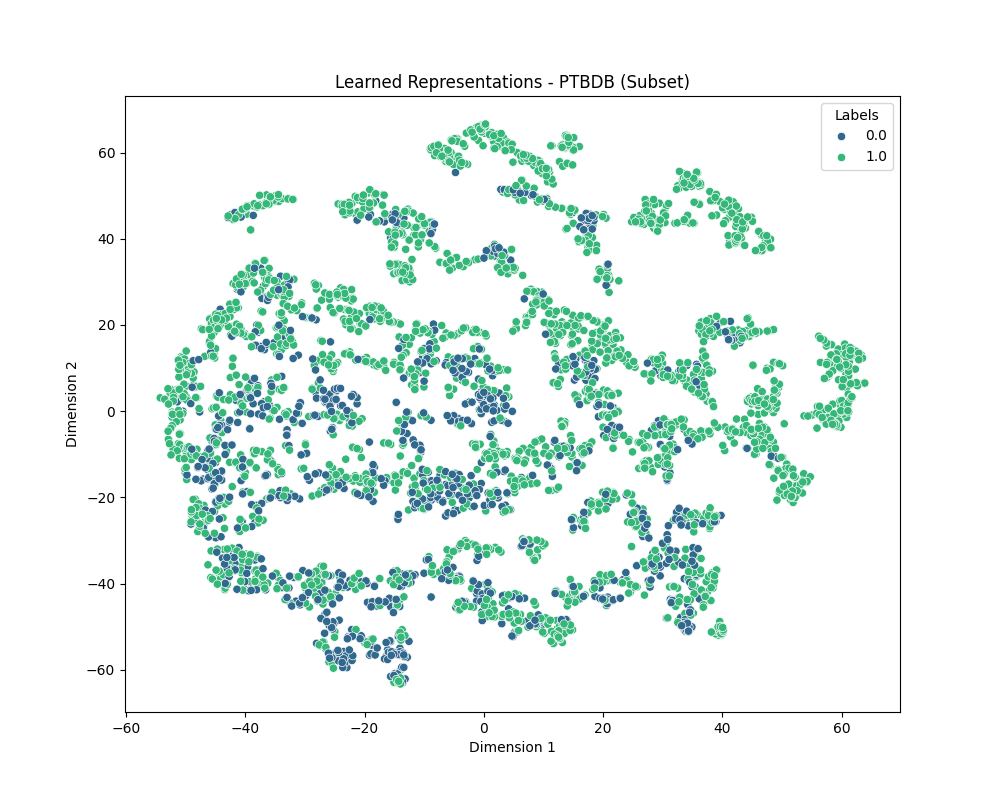
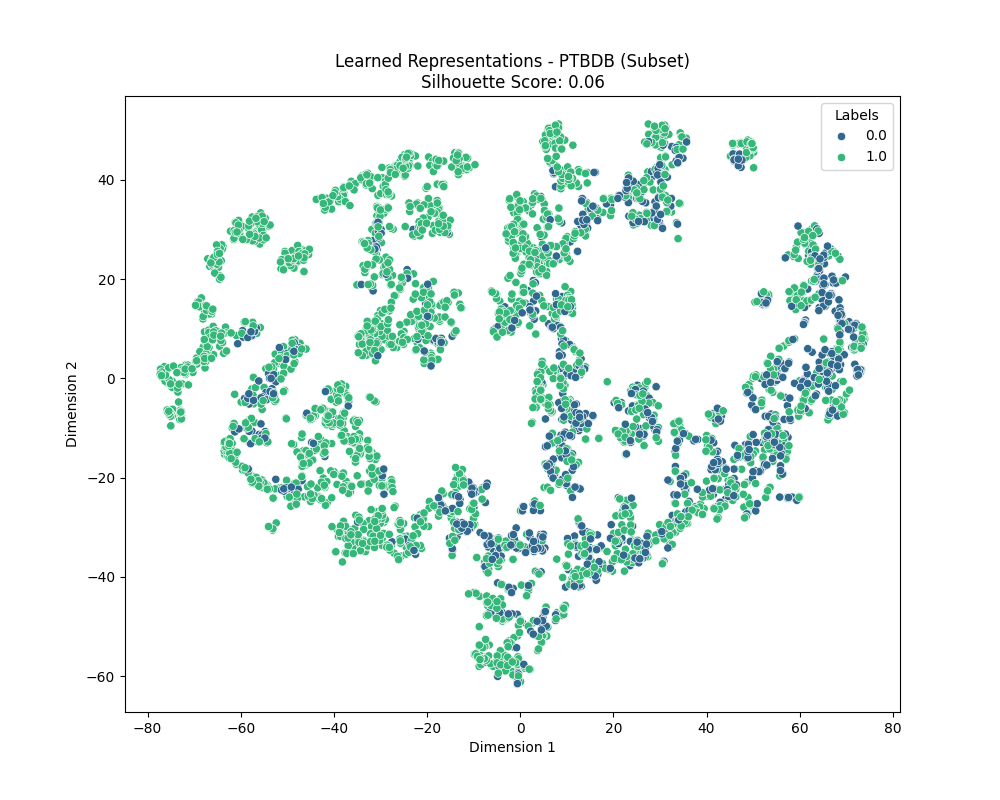
current code

diff --git a/src/part2/classic_representation.py b/src/part2/classic_representation.py
@@ -1,0 +1,207 @@
+### 2.2. part 2 #######
+
+from pathlib import Path
+from secrets import randbelow
+
+from tensorflow.keras.utils import to_categorical
+from sklearn.metrics import average_precision_score, roc_auc_score
+
+# from src.part1.cnn import build_resnet_cnn
+# from src.utils.utils import fit_evaluate, load_train_test, reshape_data
+
+from tensorflow.keras.layers import (Activation, Add, BatchNormalization,
+                                     Conv1D, Dense, Dropout, Flatten, Input,
+                                     MaxPooling1D)
+from tensorflow.keras.metrics import AUC, Precision, Recall
+from tensorflow.keras.models import Model, Sequential
+from tensorflow.keras.regularizers import l2
+
+from tensorflow.keras.layers import Input, Conv1D, BatchNormalization, Activation, MaxPooling1D, Flatten, Dense, Dropout, UpSampling1D, Reshape
+from tensorflow.keras.models import Model
+from tensorflow.keras.optimizers import Adam
+from tensorflow.keras.layers import Input, Dense, Reshape, BatchNormalization, LeakyReLU
+from tensorflow.keras.models import Model
+
+import numpy as np
+import pandas as pd
+from sklearn.metrics import auc, precision_recall_curve, roc_auc_score
+from sklearn.preprocessing import label_binarize
+import matplotlib.pyplot as plt
+import keras
+from keras import layers
+
+
+def load_train_test(dpath="../../data/ptbdb/"):
+    df_train = pd.read_csv(dpath / 'train.csv', header=None)
+    df_test = pd.read_csv(dpath / 'test.csv', header=None)
+
+    # Train split
+    X_train = df_train.iloc[:, :-1]
+    y_train = df_train.iloc[:, -1]
+
+    # Test split
+    X_test = df_test.iloc[:, :-1]
+    y_test = df_test.iloc[:, -1]
+
+    return X_train, y_train, X_test, y_test
+    
+
+# Reshape the data for LSTM
+def reshape_data(X):
+    return X.values.reshape((X.shape[0], X.shape[1], 1))
+
+
+# Fit and evaluate models
+def fit_evaluate(model, X_train, y_train, X_test, y_test,
+                 epochs=50, batch_size=64, val_split=0.1,
+                 num_classes=1):
+
+    _ = model.fit(X_train, y_train,
+                  epochs=epochs, batch_size=batch_size,
+                  validation_split=val_split)
+
+    predictions = np.array(model.predict(X_test))
+
+    roc_score = roc_auc_score(y_test, predictions, multi_class='ovo')
+    print(f"ROC-AUC: {roc_score:.3f}")
+
+    if num_classes == 1:
+        precision, recall, _ = precision_recall_curve(y_test, predictions)
+        auprc_score = auc(recall, precision)
+        print(f"AUPRC: {auprc_score:.3f} \n")
+
+    else:
+        # One vs. Rest (OvR) AUPRC
+        y_test_binarized = label_binarize(
+            y_test, classes=np.arange(num_classes)
+            )
+
+        # Calculate AUPRC for each class
+        auprc_scores = []
+        for i in range(num_classes):
+            precision, recall, _ = precision_recall_curve(
+                y_test_binarized[:, i],
+                predictions[:, i]
+                )
+            auprc_score = auc(recall, precision)
+            auprc_scores.append(auprc_score)
+
+        # Calculate the average AUPRC across all classes
+        average_auprc = np.mean(auprc_scores)
+
+        print("Average AUPRC: {:.3f}".format(average_auprc))
+
+
+def residual_block(x, filters, kernel_size=3, stride=1, conv_shortcut=True, name=None):
+    if conv_shortcut:
+        shortcut = Conv1D(filters, 1, strides=stride, name=name+'_0_conv')(x)
+        shortcut = BatchNormalization(name=name+'_0_bn')(shortcut)
+    else:
+        shortcut = x
+
+    x = Conv1D(filters, kernel_size, padding='same', strides=stride, kernel_regularizer=l2(0.001), name=name+'_1_conv')(x)
+    x = BatchNormalization(name=name+'_1_bn')(x)
+    x = Activation('relu', name=name+'_1_relu')(x)
+
+    x = Conv1D(filters, kernel_size, padding='same', kernel_regularizer=l2(0.001), name=name+'_2_conv')(x)
+    x = BatchNormalization(name=name+'_2_bn')(x)
+
+    x = Add()([shortcut, x])
+    x = Activation('relu', name=name+'_out')(x)
+    return x
+
+
+def build_resnet_encoder(input_shape, num_classes, filters=32, kernel_size=5, strides=2, out_activation='sigmoid'):
+    inputs = Input(shape=input_shape)
+    x = Conv1D(filters, kernel_size, strides=strides, padding='same', name='conv1')(inputs)
+    x = BatchNormalization(name='bn_conv1')(x)
+    x = Activation('relu')(x)
+   
+    x = residual_block(x, filters, name='res_block1')
+    x = MaxPooling1D(3, strides=strides, padding='same')(x)
+
+    x = residual_block(x, 64, name='res_block2')
+    x = MaxPooling1D(3, strides=strides, padding='same')(x)
+
+    x = Flatten()(x)
+    x = Dense(64, activation='relu')(x)
+    x = Dropout(0.5)(x)
+   
+    encoder = Model(inputs, x, name='encoder')
+
+    return encoder
+
+
+def build_decoder(num_classes,latent_dim, output_shape):
+
+    encoded_input = Input(shape=(latent_dim,))
+    x = Dense(64, activation='relu')(encoded_input)
+    x = Dropout(0.5)(x)  # Add dropout layer with a dropout rate of 0.5
+    x = Dense(output_shape[0] * output_shape[1], activation='relu')(x)
+    x = Reshape(output_shape)(x)
+
+    decoder = Model(encoded_input, x, name='decoder')
+    return decoder
+
+
+def log_reg_model(X_train):
+    model = Sequential()
+    model.add(
+        Dense(
+            1, 
+            activation='sigmoid',  # Sigmoid activation for logistic regression
+            input_shape=(X_train.shape[1],)  # Input shape is 1D
+            )) 
+    model.compile(
+        optimizer='adam',
+        loss='binary_crossentropy',
+        metrics=[
+            AUC(name='auc'),
+            Precision(name='precision'),
+            Recall(name='recall')
+        ])
+    return model
+
+
+if __name__ == "__main__":
+    print("--- Representation Learning Q2.2 ---")
+    # Load the data
+    dpath = Path("../../data/mitbih/")
+    X_train, y_train, X_test, y_test = load_train_test(dpath)
+
+    # Reshape the data for CNNs
+    X_train_reshaped = reshape_data(X_train)
+    X_test_reshaped = reshape_data(X_test)
+    input_dim = X_train_reshaped.shape[1]
+    input_shape = (X_train_reshaped.shape[1], 1)
+    # input_shape = (X_train_reshaped.shape[1], 1)
+    latent_dim = 64
+    n_classes = 5
+
+    encoder = build_resnet_encoder(input_shape, filters=32, kernel_size=5, strides=2, out_activation='sigmoid', num_classes=64)
+    decoder = build_decoder(num_classes = n_classes, latent_dim = latent_dim, output_shape = input_shape)
+
+    latent_dim=64
+    autoencoder_input = Input(shape=input_shape)
+    encoded_output = encoder(autoencoder_input)
+    decoded_output = decoder(encoded_output)
+
+    autoencoder = Model(autoencoder_input, decoded_output, name='autoencoder')
+    autoencoder.compile(optimizer='adam', loss='binary_crossentropy')
+
+    autoencoder.fit(X_train_reshaped, X_train_reshaped,
+                    epochs=20,
+                    batch_size=256,
+                    shuffle=True)
+    
+    #encoder representations
+    encoded = encoder.predict(X_train_reshaped)
+    encoded = encoded.reshape((encoded.shape[0], encoded.shape[1], 1))
+    test_encoded = encoder.predict(X_test_reshaped)
+    test_encoded = test_encoded.reshape((test_encoded.shape[0], test_encoded.shape[1], 1))
+    print(encoded)
+    logreg = log_reg_model(encoded)
+    
+    fit_evaluate(logreg, encoded, y_train, test_encoded, y_test)
+
+  

diff --git a/src/part2/viz_encoders.py b/src/part2/viz_encoders.py
@@ -3,6 +3,7 @@ import numpy as np
 import pandas as pd
 from sklearn.decomposition import PCA
 from sklearn.manifold import TSNE
+from sklearn.metrics import silhouette_score
 import matplotlib.pyplot as plt
 import seaborn as sns
 from tensorflow.keras.layers import (Activation, Add, BatchNormalization,
@@ -14,6 +15,10 @@ from tensorflow.keras.utils import to_categorical
 from tensorflow.keras.metrics import AUC, Precision, Recall
 from tensorflow.keras.optimizers import Adam
 from tqdm import tqdm
+
+from sklearn.metrics import auc, precision_recall_curve, roc_auc_score
+from sklearn.preprocessing import label_binarize
+
 
 def load_train_test(dpath="../../data/mitbih/"):
     df_train = pd.read_csv(dpath / 'train.csv', header=None)
@@ -120,15 +125,18 @@ def visualize_representations(encoder, dataset, labels, title, filename):
     tsne = TSNE(n_components=2, random_state=42)
     reduced_repr = tsne.fit_transform(reduced_repr)
 
+    # Calculate silhouette score
+    silhouette_avg = silhouette_score(reduced_repr, subset_labels)
+    print(f'Silhouette Score: {silhouette_avg}')
+
     # Plot
     plt.figure(figsize=(10, 8))
     sns.scatterplot(x=reduced_repr[:, 0], y=reduced_repr[:, 1], hue=subset_labels, palette='viridis', legend='full')
-    plt.title(title)
+    plt.title(f'{title}\nSilhouette Score: {silhouette_avg:.2f}')
     plt.xlabel('Dimension 1')
     plt.ylabel('Dimension 2')
     plt.legend(title='Labels', loc='upper right')
     plt.savefig(filename)
-
 
 def build_resnet_encoder(input_shape, filters=32, kernel_size=5, strides=2, out_activation='sigmoid',
                      num_classes=1):
@@ -151,7 +159,6 @@ def build_resnet_encoder(input_shape, filters=32, kernel_size=5, strides=2, out_
     encoder = Model(inputs, x, name='encoder')
     return encoder
 
-
 def build_decoder(latent_dim, output_shape):
 
     encoded_input = Input(shape=(latent_dim,))
@@ -162,6 +169,46 @@ def build_decoder(latent_dim, output_shape):
 
     decoder = Model(encoded_input, x, name='decoder')
     return decoder
+
+# Fit and evaluate models
+def fit_evaluate(model, X_train, y_train, X_test, y_test,
+                 epochs=50, batch_size=64, val_split=0.1,
+                 num_classes=1):
+
+    _ = model.fit(X_train, y_train,
+                  epochs=epochs, batch_size=batch_size,
+                  validation_split=val_split)
+
+    predictions = np.array(model.predict(X_test))
+
+    roc_score = roc_auc_score(y_test, predictions, multi_class='ovo')
+    print(f"ROC-AUC: {roc_score:.3f}")
+
+    if num_classes == 1:
+        precision, recall, _ = precision_recall_curve(y_test, predictions)
+        auprc_score = auc(recall, precision)
+        print(f"AUPRC: {auprc_score:.3f} \n")
+
+    else:
+        # One vs. Rest (OvR) AUPRC
+        y_test_binarized = label_binarize(
+            y_test, classes=np.arange(num_classes)
+            )
+
+        # Calculate AUPRC for each class
+        auprc_scores = []
+        for i in range(num_classes):
+            precision, recall, _ = precision_recall_curve(
+                y_test_binarized[:, i],
+                predictions[:, i]
+                )
+            auprc_score = auc(recall, precision)
+            auprc_scores.append(auprc_score)
+
+        # Calculate the average AUPRC across all classes
+        average_auprc = np.mean(auprc_scores)
+
+        print("Average AUPRC: {:.3f}".format(average_auprc))
 
 
 # Main
@@ -199,7 +246,8 @@ if __name__ == "__main__":
 
     # Build and train the full ResNet model
     resnet_model = build_resnet_cnn(input_shape, num_classes=n_classes)
-    fit_model(resnet_model, X_train_mitbih_reshaped, y_train_mitbih_encoded, epochs=5)
+    # Changed from fit_model - to check any differences to cnn_transfer
+    fit_evaluate(resnet_model, X_train_mitbih_reshaped, y_train_mitbih_encoded, X_test_mitbih_reshaped, y_test_mitbih_encoded, epochs=10)
 
     # Extract the encoder from the trained ResNet model
     resnet_encoder = extract_encoder(resnet_model, input_shape)
@@ -227,7 +275,7 @@ if __name__ == "__main__":
         metrics=['accuracy', AUC(name='auc'), AUC(name='auprc', curve='PR'), Precision(name='precision'), Recall(name='recall')])
 
     autoencoder.fit(X_train_mitbih_reshaped, X_train_mitbih_reshaped,
-                    epochs=5,
+                    epochs=10,
                     batch_size=256,
                     shuffle=True,
                     validation_split=0.1)
@@ -246,3 +294,5 @@ if __name__ == "__main__":
     print(X_train_combined.shape, y_indicator.shape)
     visualize_representations(resnet_encoder, X_train_combined, y_indicator, 'Comparison of dataset embeddings (RESNET)', "RESNET-both.png")
     visualize_representations(encoder, X_train_combined, y_indicator, 'Comparison of dataset embeddings (AUTOENCODER)', "Autoencoder-both.png")
+
+
